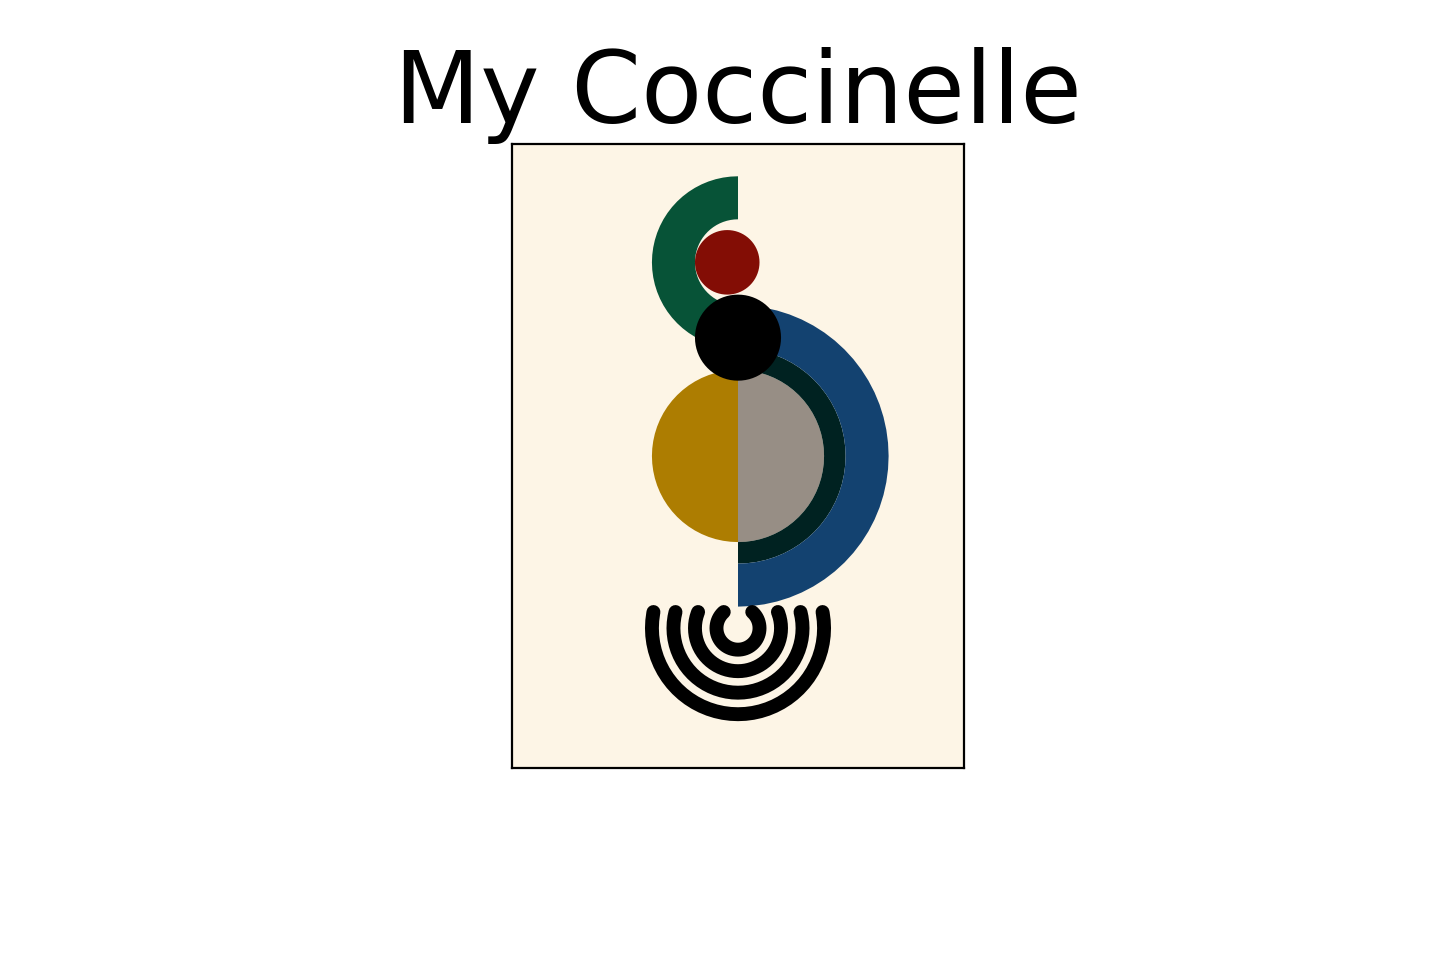
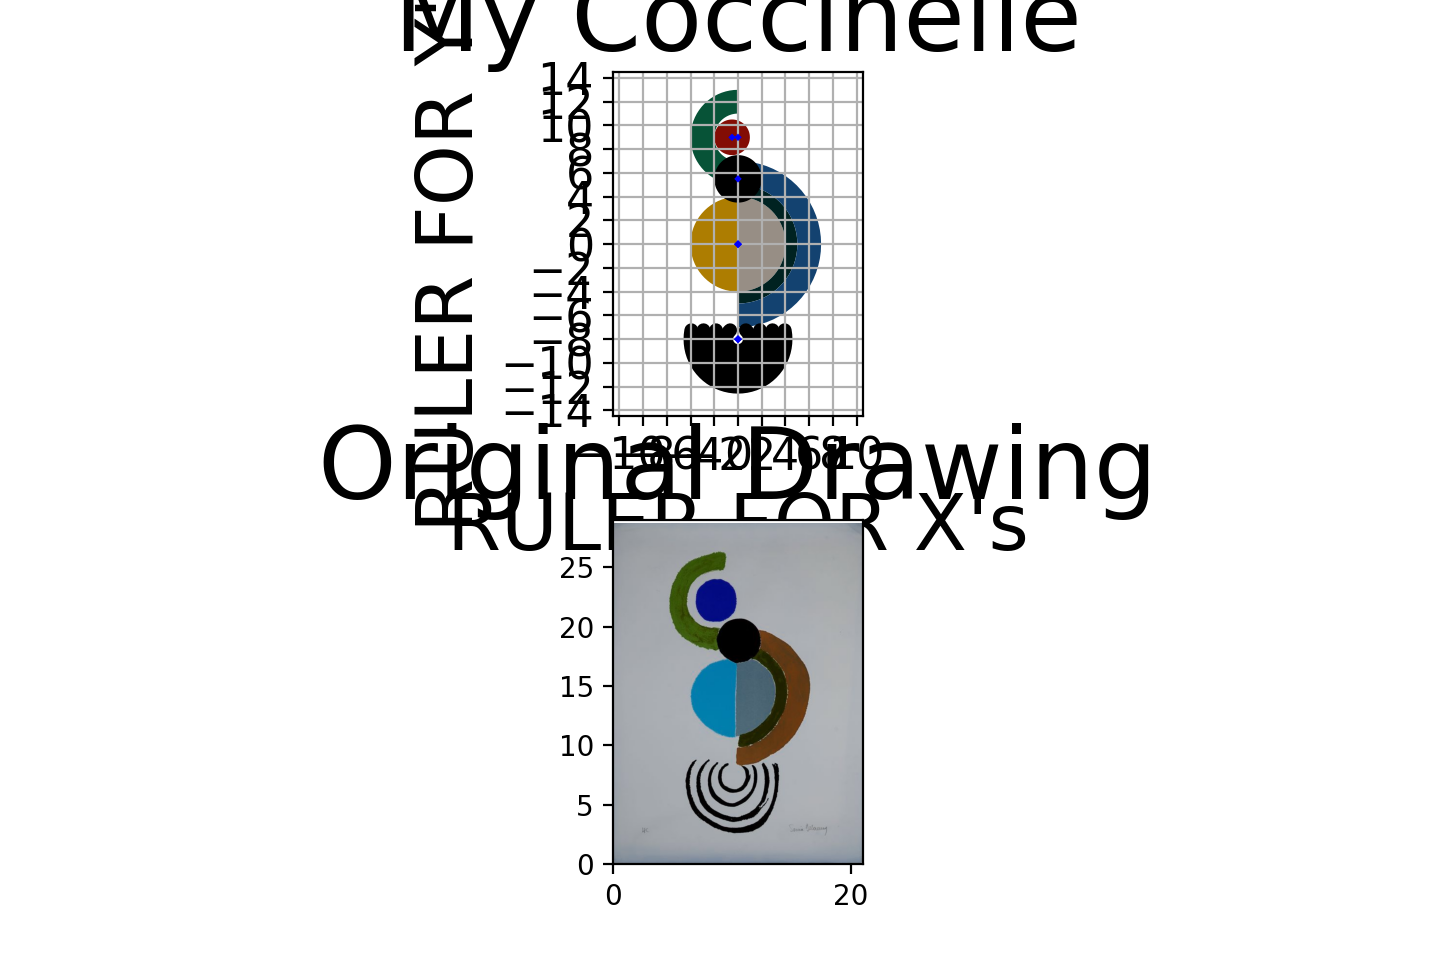
added showing model image

Changed region(s): [[0.2188, 0.0, 0.8125, 0.9375]]

diff --git a/zyxxy_canvas.py b/zyxxy_canvas.py
@@ -16,10 +16,14 @@
 
 import numpy as np
 from functools import partial
+from math import floor
 from matplotlib import animation
 import matplotlib.pyplot as plt
+import types
+
 from zyxxy_shape_style import set_diamond_size_factor, set_patch_style, show_outlines_only
 from zyxxy_shape_class import get_all_polygons_in_layers
+from zyxxy_external_images import filename_to_image, show_image
 from MY_zyxxy_SETTINGS import my_default_font_sizes, my_default_background_settings, my_default_display_params, my_default_image_params, my_default_animation_params
 
 __is_running_tests = False
@@ -60,18 +64,28 @@ def create_canvas_and_axes(canvas_width,
     if model is None:
       _, axes = plt.subplots()
     else:
-     _, axs = plt.subplots(2)
-     axes = axs[0]
-     model(axes=axs[1]) 
-     figsize[1] *= 2 # because we plot 2 images
-     margin_adjustments['bottom'] /= 2.
-     margin_adjustments['top'] = (1 + margin_adjustments['top']) / 2.
-     axs[1].set_title("Completed Drawing", fontdict={'size': title_font_size})
-     if show_outlines:
-       show_outlines_only(True)
-       model(axes=axes)
-       axes.set_title("") # remove the title if needed
-       show_outlines_only(False)
+      _, axs = plt.subplots(2)
+      axes = axs[0]
+      if isinstance(model, str):
+        image = filename_to_image(filename=model)
+        axs[1].set_xlim(left=0,   right=canvas_width)
+        axs[1].set_ylim(bottom=0, top=canvas_height)
+        axs[1].set_aspect('equal')
+        scaling_factor = min(canvas_width/image.shape[1], canvas_height/image.shape[0])
+        show_image(ax=axs[1], prepared_image=image, origin=[0, 0], zorder=0, scaling_factor=scaling_factor, where_position="")
+        model_title = "Original Drawing"
+      else:
+        model(axes=axs[1]) 
+        model_title = "Completed Drawing"
+      figsize[1] *= 2 # because we plot 2 images
+      margin_adjustments['bottom'] /= 2.
+      margin_adjustments['top'] = (1 + margin_adjustments['top']) / 2.
+      axs[1].set_title(model_title, fontdict={'size': title_font_size})
+      if show_outlines and model is not None and not isinstance(model, str):
+         show_outlines_only(True)
+         model(axes=axes)
+         axes.set_title("") # remove the title if needed
+         show_outlines_only(False)
 
   axes.set_title(title, fontdict={'size': title_font_size})
 
@@ -87,6 +101,13 @@ def create_canvas_and_axes(canvas_width,
   else:
     bottom_y, top_y = 0, canvas_height
 
+  # helper function to make sure the ticks are in the right place
+  def get_round_multiple_range(min_, max_, step):
+    _sign = -1 if min_ < 0 else 1
+    min_multiple = _sign * floor(abs(min_/step)) * abs(step)
+    result = np.arange(min_multiple, max_, step)
+    return result
+
   # show diamond points and grid and axis if and only if tick_step is set
   set_diamond_size_factor(value=(tick_step is not None))
   axes.grid(tick_step is not None)
@@ -94,8 +115,8 @@ def create_canvas_and_axes(canvas_width,
     axes.set_xlabel("RULER FOR X's", fontsize=axes_label_font_size)
     axes.set_ylabel("RULER FOR Y's", fontsize=axes_label_font_size)
     axes.tick_params(axis='both', which='major', labelsize=axes_tick_font_size)
-    axes.set_xticks(ticks = np.arange(left_x, right_x, tick_step))
-    axes.set_yticks(ticks = np.arange(bottom_y, top_y, tick_step))
+    axes.set_xticks(ticks = get_round_multiple_range(left_x, right_x, tick_step))
+    axes.set_yticks(ticks = get_round_multiple_range(bottom_y, top_y, tick_step))
   else:
     axes.set_xticks(ticks = [])
     axes.set_yticks(ticks = [])

diff --git a/zyxxy_external_images.py b/zyxxy_external_images.py
@@ -1,0 +1,58 @@
+import matplotlib.cbook as cbook
+import matplotlib.image as image
+import cv2
+import os
+import numpy as np
+import urllib.request
+import os.path
+
+headers = { 'User-Agent': 'Mozilla/5.0 (Windows NT 6.0; WOW64; rv:24.0) Gecko/20100101 Firefox/24.0' }
+
+def filename_to_image(filename):
+    # download the image, convert it to a NumPy array, and then read
+    # it into OpenCV format
+    if os.path.isfile(filename):
+      image = cv2.imread(filename)
+    else:
+      assert filename.startswith("http")
+      url = filename
+      request = urllib.request.Request(url, headers=headers)
+      resp = urllib.request.urlopen(request).read()
+      image_array = np.asarray(bytearray(resp), dtype="uint8")
+      # raise Exception(len(image_array))
+      image = cv2.imdecode(image_array, cv2.IMREAD_COLOR) 
+      
+    # return the image
+    return image
+
+def scale_image(filename_with_path, scaling_factor=1, mirror=False):
+    with cbook.get_sample_data(filename_with_path) as file:
+      original_image = image.imread(file)
+    new_shape = (int(original_image.shape[1] / scaling_factor), 
+                 int(original_image.shape[0] / scaling_factor))
+    resized_image = cv2.resize(original_image, dsize=new_shape)
+    if mirror:
+      resized_image = resized_image[:,::-1,:]
+    return resized_image
+
+def mirror_image(img):
+    return img[:,::-1,:]
+
+def prepare_image(filename_with_path, mirror=False):
+    if filename_with_path.startswith('~'):
+        filename_with_path = os.path.expanduser(filename_with_path)
+    with cbook.get_sample_data(filename_with_path) as file:
+        prepared_image = image.imread(file)
+    if mirror:
+        prepared_image = mirror_image(img=prepared_image)
+    return prepared_image
+
+def show_image(ax, prepared_image, origin, zorder=0, scaling_factor=1, where_position=""):
+    extent=[origin[0], origin[0] + prepared_image.shape[1] * scaling_factor, 
+            origin[1], origin[1] + prepared_image.shape[0] * scaling_factor]
+    if 'R' in where_position:
+        extent[0] -= prepared_image.shape[0]*scaling_factor
+        extent[1] -= prepared_image.shape[0]*scaling_factor
+
+    result = ax.imshow(prepared_image, extent=extent, zorder=zorder)
+    return result

diff --git a/drawn_a_Coccinelle.py b/drawn_a_Coccinelle.py
@@ -16,9 +16,10 @@ bg_colour = 'oldlace'
 # Creating the canvas!                               ##
 axes = create_canvas_and_axes(canvas_width = 21,
                               canvas_height = 29,
-                              #tick_step = 1,
+                              tick_step = 2,
                               make_symmetric = True,
-                              title = "My Coccinelle", 
+                              title = "My Coccinelle",
+                              model = 'https://assets.catawiki.nl/assets/2020/6/17/c/7/9/c79f120c-acb0-472e-8447-d334163ee436.jpg', 
                               background_colour=bg_colour)
 
 
@@ -32,8 +33,7 @@ draw_a_sector(ax=axes, centre_x=0, centre_y=9, radius=2, radius_2=4, angle_start
 draw_a_circle(ax=axes, centre_x=-0.5, centre_y=9, radius=1.5, colour=brickred)
 draw_a_circle(ax=axes, centre_x=0, centre_y=5.5, radius=2, colour='black')
 
-for i in range(4):
-  radius=1+i
+for radius in [1, 2, 3, 4]:
   angle_to_horizontal = asin_hours(0.75 / radius)
   draw_an_arc(ax=axes, centre_x=0, centre_y=-8, radius=radius, angle_start=3-angle_to_horizontal, angle_end=9+angle_to_horizontal, linewidth=5, colour='black')
 
